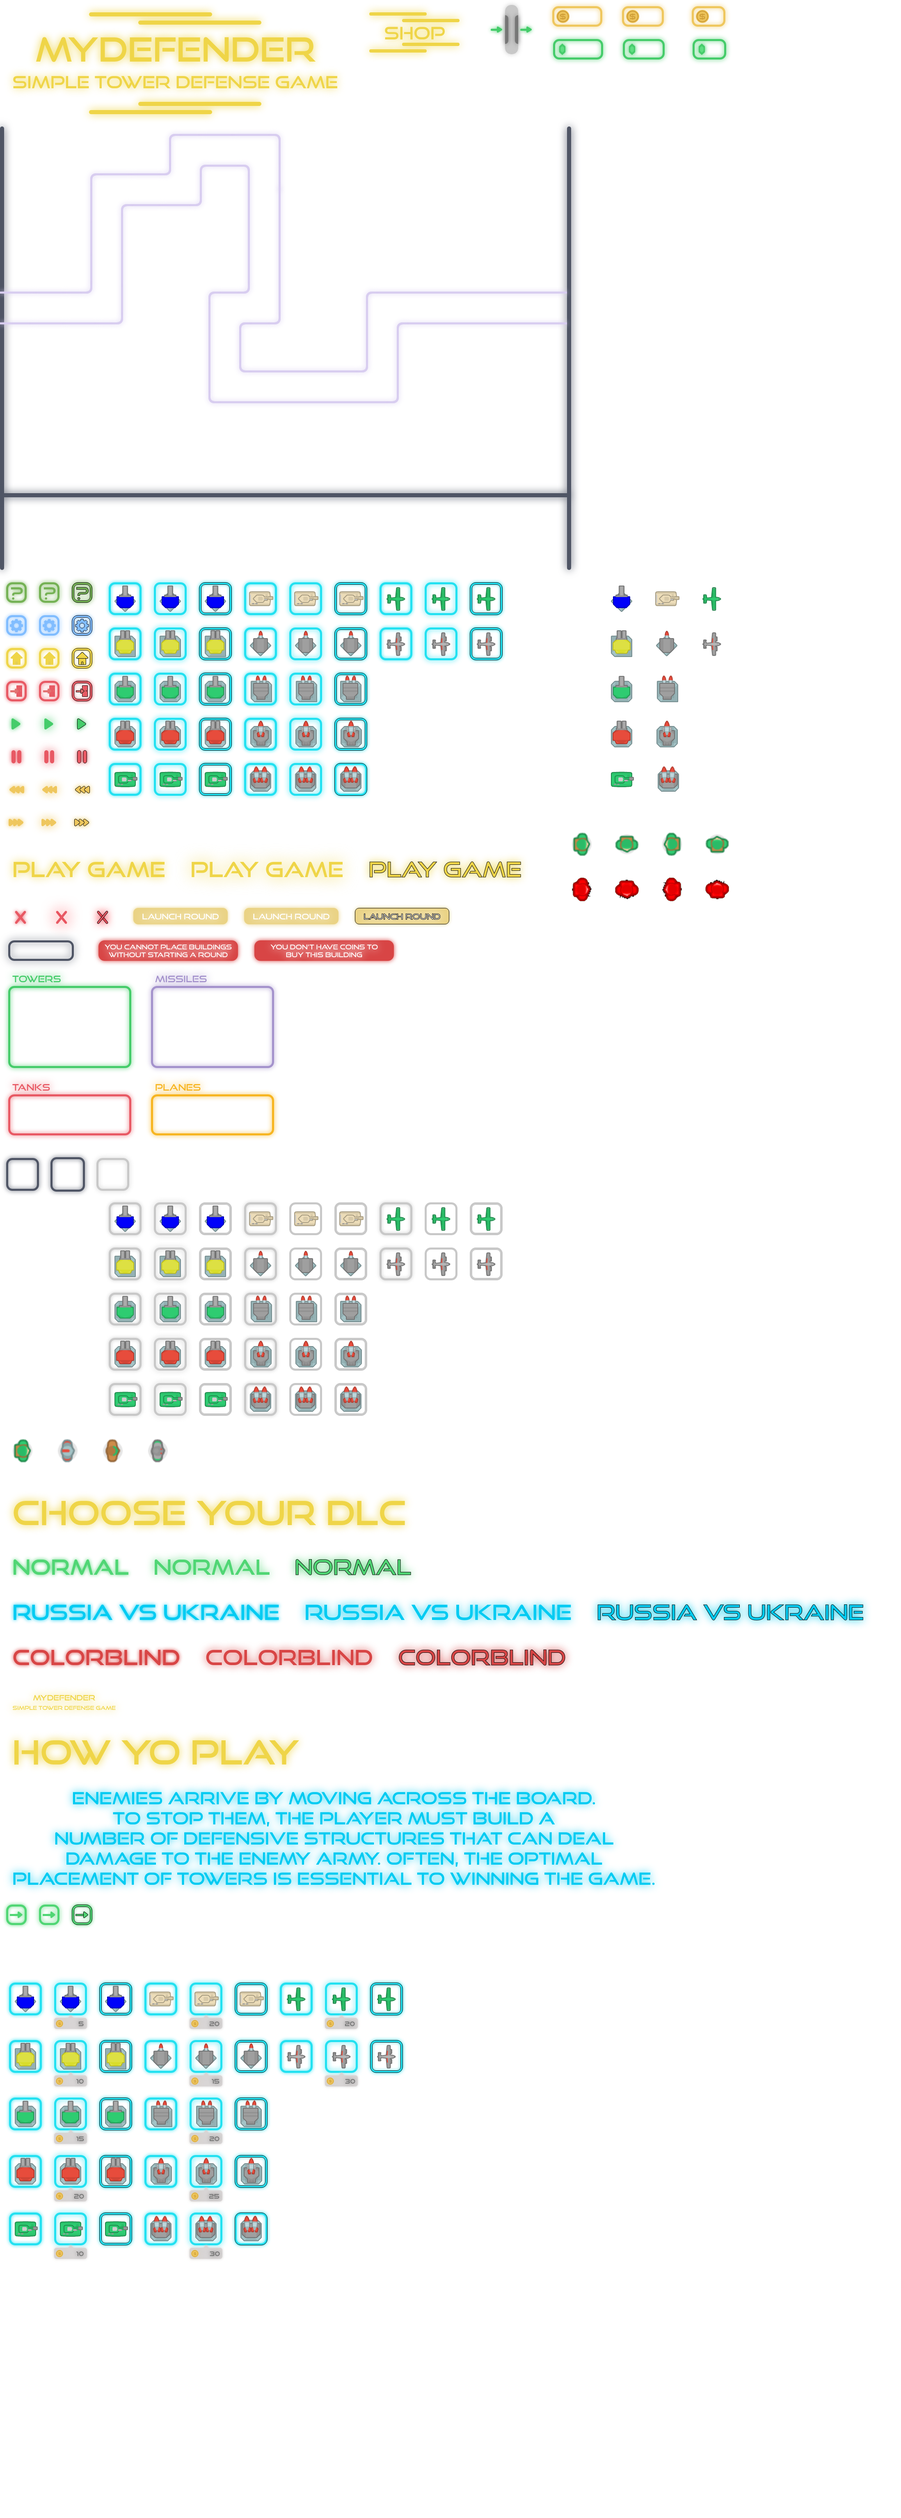
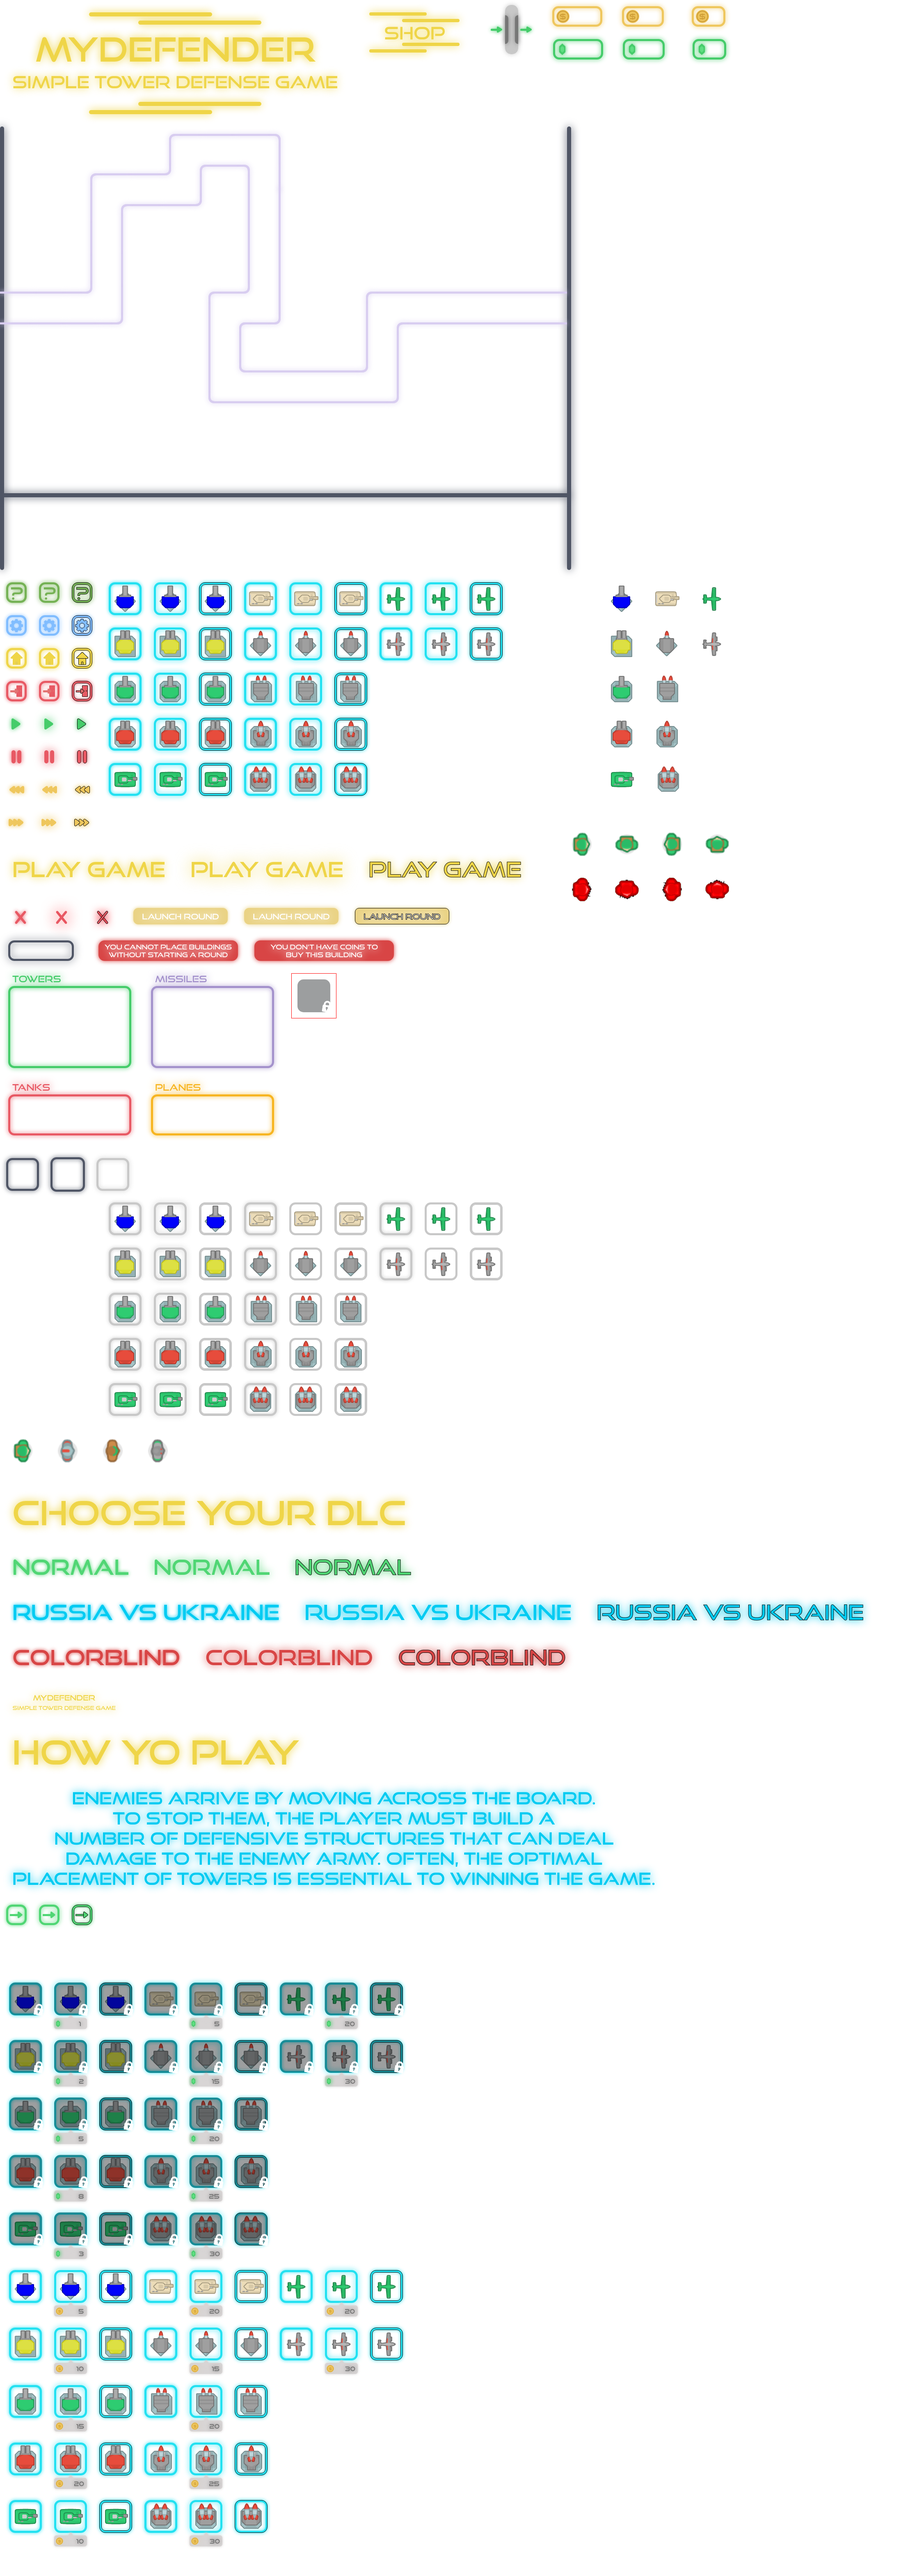
:construction: add first item in shop

diff --git a/src/game/shop/towers.c b/src/game/shop/towers.c
@@ -1,0 +1,29 @@
+/*
+** EPITECH PROJECT, 2022
+** my_defender
+** File description:
+** No file there , just an epitech header example
+*/
+
+#include "shop.h"
+#include "game.h"
+
+const int PRICE_1 = 0;
+
+void buy_tower_1(dfd *df)
+{
+    node_button *tmp = df->list_buttons;
+    sfIntRect rect;
+
+    if (df->shop->tower_1 == TRUE)
+        return;
+    if (df->emeralds < PRICE_1)
+        return;
+    df->shop->tower_1 = TRUE;
+    df->emeralds -= PRICE_1;
+    while (tmp->id != 10)
+        tmp = tmp->next;
+    rect = sfSprite_getTextureRect(tmp->button->button->sprite);
+    rect.top += 700;
+    sfSprite_setTextureRect(tmp->button->button->sprite, rect);
+}

diff --git a/src/setup/shop/init.c b/src/setup/shop/init.c
@@ -12,13 +12,13 @@
 void init_shop(dfd *df)
 {
     df->shop = malloc(sizeof(shop_t));
-    df->shop->tower_1 = TRUE;
+    df->shop->tower_1 = FALSE;
     df->shop->tower_2 = FALSE;
     df->shop->tower_3 = FALSE;
     df->shop->tower_4 = FALSE;
     df->shop->tank_1 = FALSE;
     df->shop->tank_2 = FALSE;
-    df->shop->missile_1 = TRUE;
+    df->shop->missile_1 = FALSE;
     df->shop->missile_2 = FALSE;
     df->shop->missile_3 = FALSE;
     df->shop->missile_4 = FALSE;

diff --git a/src/game/drag_and_drop.c b/src/game/drag_and_drop.c
@@ -9,6 +9,7 @@
 #include "game.h"
 #include "utils.h"
 #include "buildings.h"
+#include "shop.h"
 
 int get_id(int id)
 {
@@ -43,6 +44,8 @@ void drag_and_drop(dfd *df)
     sfVector2i mu = sfMouse_getPositionRenderWindow(df->window->window);
     node_button *tmp = df->list_buttons;
 
+    if (check_item(df))
+        return buy_item(df);
     if (df->placing == FALSE) {
         sfClock_restart(df->clock_popup->clock);
         switch_step(df, POP);

diff --git a/src/game/shop/use.c b/src/game/shop/use.c
@@ -7,8 +7,17 @@
 */
 
 #include "shop.h"
+#include "game.h"
 
-void my_function()
+int check_item(dfd *df)
 {
+    if (df->last_unclick == 10 && df->shop->tower_1 == FALSE)
+        return 1;
+    return 0;
+}
 
+void buy_item(dfd *df)
+{
+    if (df->last_unclick == 10)
+        buy_tower_1(df);
 }

diff --git a/include/shop.h b/include/shop.h
@@ -10,4 +10,10 @@
 
     #include "struct.h"
 
+void buy_item(dfd *df);
+
+int check_item(dfd *df);
+
+void buy_tower_1(dfd *df);
+
 #endif

diff --git a/src/game/shop/missiles.c b/src/game/shop/missiles.c
@@ -1,0 +1,7 @@
+/*
+** EPITECH PROJECT, 2022
+** my_defender
+** File description:
+** No file there , just an epitech header example
+*/
+

diff --git a/src/game/shop/planes.c b/src/game/shop/planes.c
@@ -1,0 +1,7 @@
+/*
+** EPITECH PROJECT, 2022
+** my_defender
+** File description:
+** No file there , just an epitech header example
+*/
+

diff --git a/src/game/shop/tanks.c b/src/game/shop/tanks.c
@@ -1,0 +1,7 @@
+/*
+** EPITECH PROJECT, 2022
+** my_defender
+** File description:
+** No file there , just an epitech header example
+*/
+
